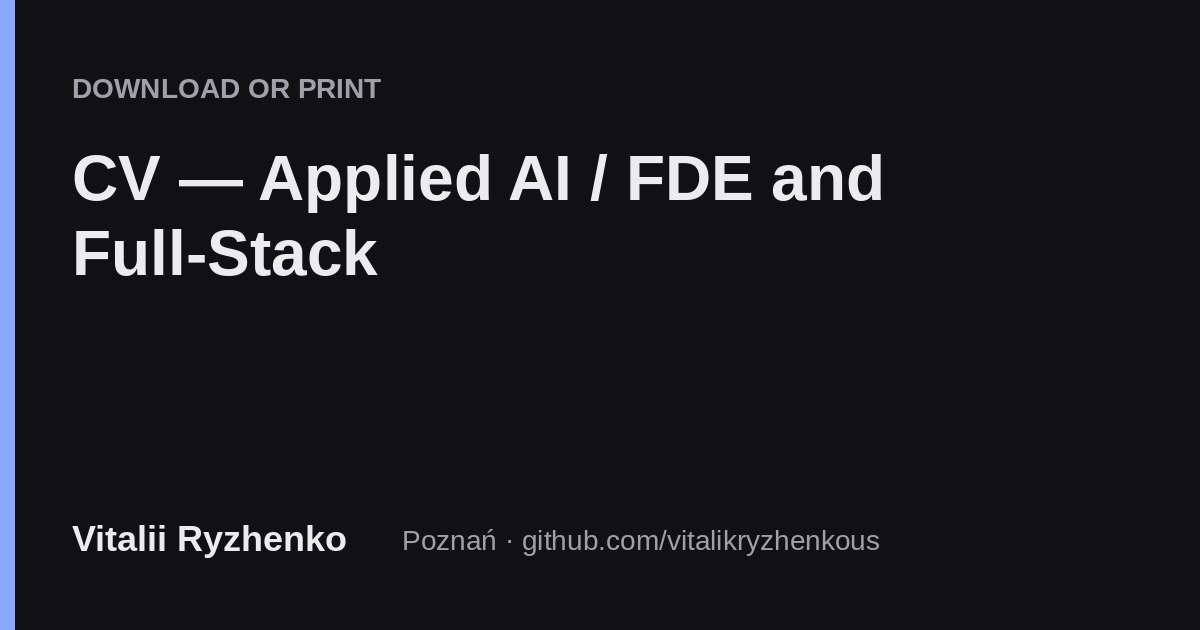
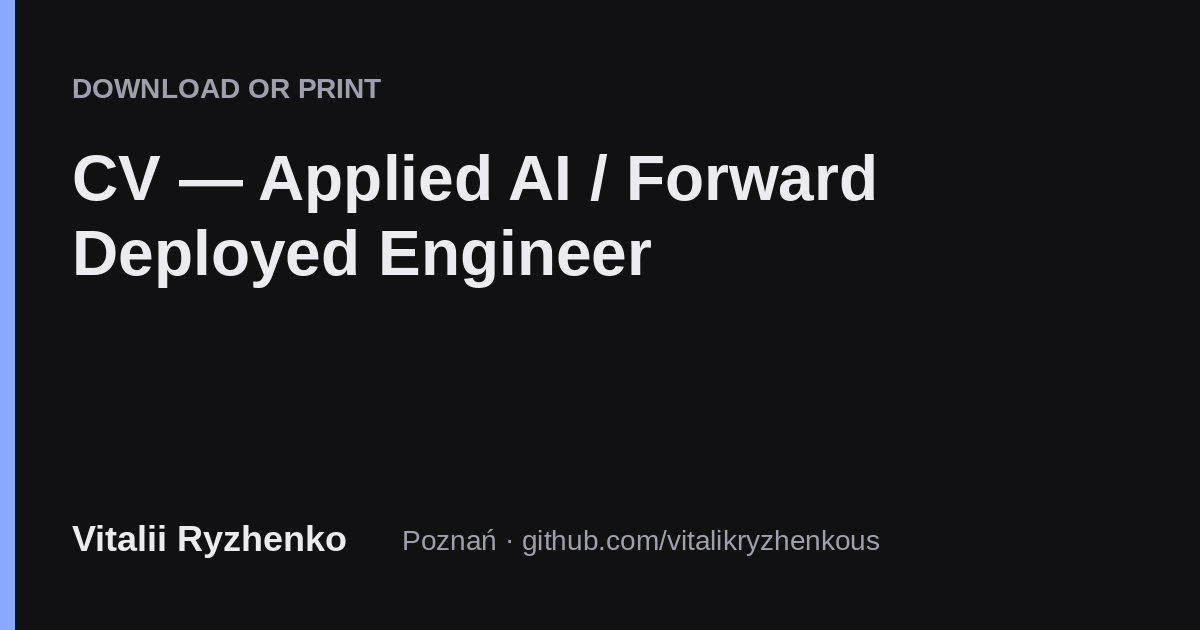
fix(graph): open cards only on click/Enter, not on React Flow selection; one CV on the site
- React Flow selects the focused node on Escape; our selection handler then reopened a just-closed card
  (flaky keyboard test). Cards now open only from onNodeClick and the canvas Enter/Space handler.
- the site offers only the Applied AI / FDE CV; the Full-Stack PDF is still generated, into private/
  (gitignored), for targeted applications; llms.txt and the /cv preview title updated

Changed region(s): [[0.0617, 0.3619, 0.555, 0.4524], [0.555, 0.2413, 0.74, 0.3317]]

diff --git a/src/components/PlatformGraph.tsx b/src/components/PlatformGraph.tsx
@@ -11,7 +11,6 @@ import {
   type EdgeProps,
   type Node,
   type NodeProps,
-  type OnSelectionChangeParams,
 } from '@xyflow/react';
 import '@xyflow/react/dist/style.css';
 import graph from '../data/graph.json';
@@ -253,12 +252,8 @@ export default function PlatformGraph() {
     return () => window.removeEventListener('keydown', onKey);
   }, [active]);
 
-  const onSelectionChange = useCallback(({ nodes: sel }: OnSelectionChangeParams) => {
-    // Open on selection (mouse or Enter on a focused node). An empty selection does NOT close the card:
-    // the animation rebuilds nodes every step, which clears React Flow's selection. Close = × or pane click.
-    const id = sel[0]?.id;
-    if (id) setActive(activeFor(id));
-  }, []);
+  // Cards open only on explicit actions: a click (onNodeClick) or Enter/Space (canvas keydown). Not on
+  // React Flow's selection: on Escape it *selects* the focused node, which used to reopen a just-closed card.
 
   const playing = scenario !== null && step >= 0 && step < scenario.steps.length;
   const caption = scenario && step >= 0 ? scenario.steps[Math.min(step, scenario.steps.length - 1)]?.caption : null;
@@ -317,7 +312,6 @@ export default function PlatformGraph() {
             edges={edges}
             nodeTypes={nodeTypes}
             edgeTypes={edgeTypes}
-            onSelectionChange={onSelectionChange}
             onNodeClick={(_, n) => {
               track(`graph-node:${n.id}`);
               setActive(activeFor(n.id));

diff --git a/scripts/build-cv.py b/scripts/build-cv.py
@@ -8,7 +8,8 @@
 
 Sources: src/data/cv.json (experience, education, languages), src/data/stack.json (professional skills),
 src/data/profile.json (name, contacts, certifications), src/data/cv-variants.json (headline, summary, order).
-Output: public/cv/*.pdf. Only email, LinkedIn and city — no phone, no address.
+Output: the Applied AI / FDE PDF in public/cv/ (on the site); the Full-Stack PDF in private/cv/ (gitignored,
+sent only with targeted applications). Only email, LinkedIn and city — no phone, no address.
 """
 
 import json
@@ -70,6 +71,7 @@ def build(variant_id: str) -> Path:
     v = variants[variant_id]
     st = styles()
     out = ROOT / v["file"]
+    out.parent.mkdir(parents=True, exist_ok=True)
 
     linkedin = profile["links"]["linkedin"]
     contact = (
